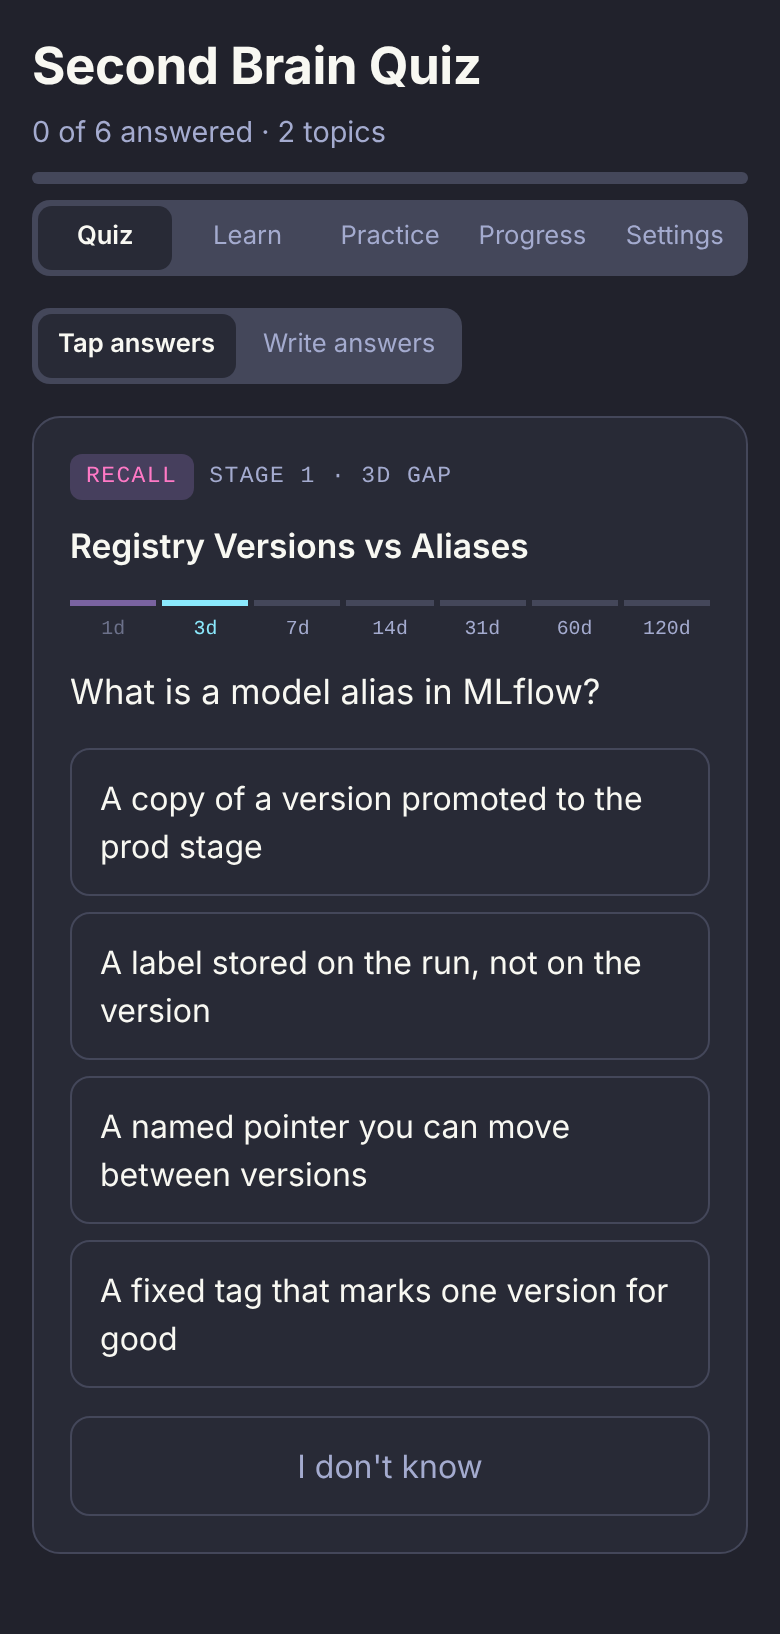
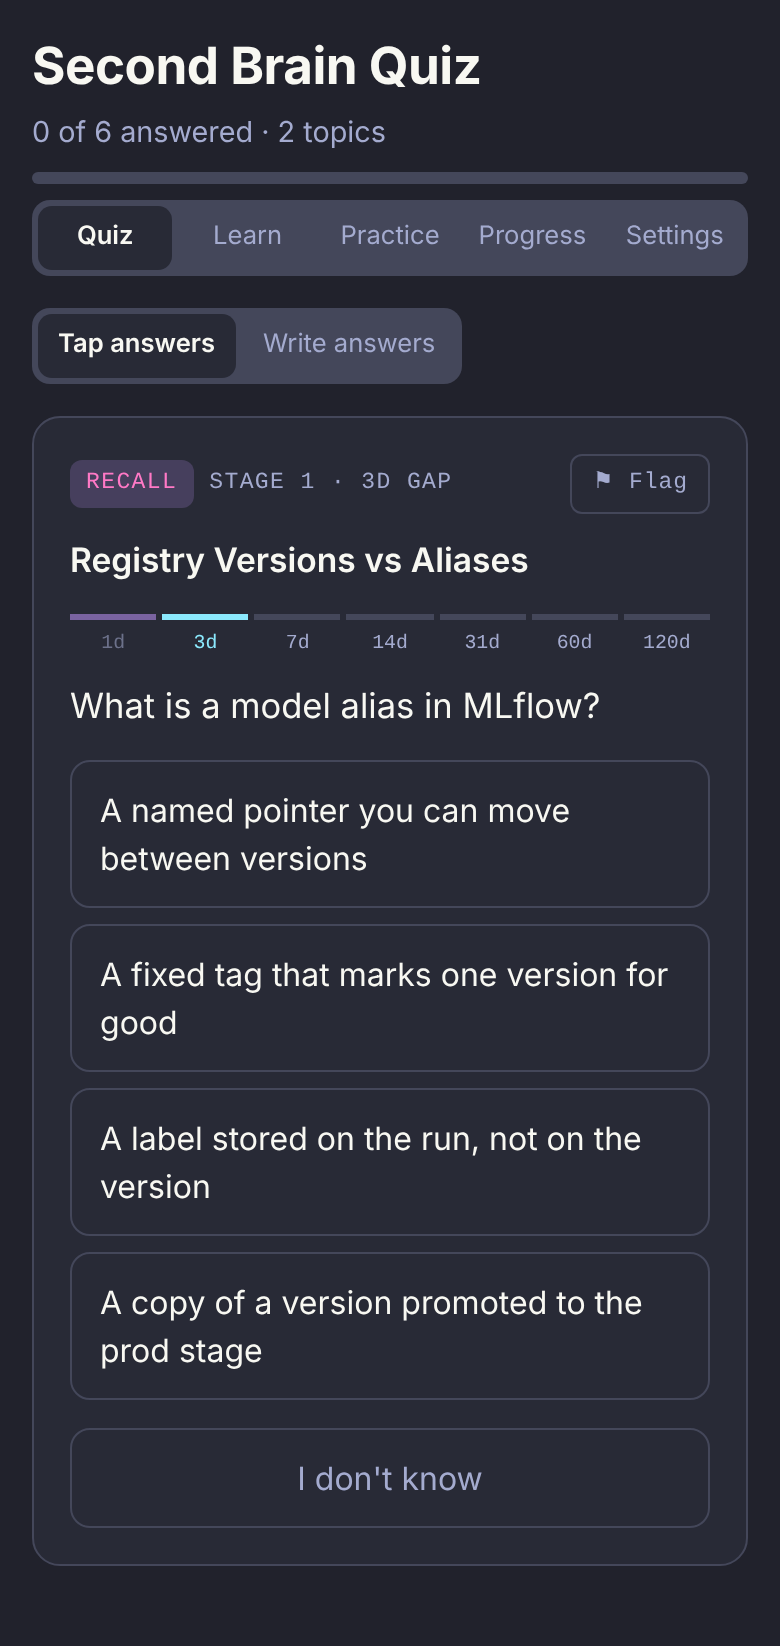
v1.15.0: flag questions, offline answers, inline code in questions
Claude-Session: https://claude.ai/code/session_01EMdQBoW5wE4vVuz75Yu5Xb

diff --git a/quiz/quiz.html b/quiz/quiz.html
@@ -69,6 +69,10 @@ h1{font:700 1.6rem/1.1 var(--display);margin:0;text-wrap:balance;letter-spacing:
 .bar i{display:block;height:100%;background:var(--accent);width:0;transition:width .3s}
 .card{background:var(--surface);border:1px solid var(--line);border-radius:14px;padding:18px;display:flex;flex-direction:column;gap:14px;min-width:0}
 .meta{display:flex;flex-wrap:wrap;gap:8px;align-items:center}
+.flag{margin-left:auto;min-height:30px;padding:4px 10px;font:500 .72rem/1 var(--mono);letter-spacing:.04em;color:var(--muted);background:transparent;border:1px solid var(--line);border-radius:6px;text-align:center}
+.flag[disabled]{opacity:1;color:var(--good);border-color:var(--good)}
+.flagmenu{display:flex;flex-wrap:wrap;gap:6px}.flagmenu button{min-height:34px;padding:6px 10px;font-size:.8rem;text-align:center}
+.pending{color:var(--warn);font-size:.82rem;margin:0}
 .chip{font:500 .72rem/1 var(--mono);letter-spacing:.06em;text-transform:uppercase;padding:6px 8px;border-radius:6px;background:var(--accent-soft);color:var(--pink)}
 .chip.plain{background:transparent;color:var(--muted);padding-inline:0}
 .topic{font:600 1.05rem/1.3 var(--display);margin:0}
@@ -191,6 +195,7 @@ textarea{font:inherit;width:100%;box-sizing:border-box;min-height:120px;border-r
   <header>
     <h1>Second Brain Quiz</h1>
     <p class="sub" id="sub">Loading your questions…</p>
+    <p class="pending" id="pending" hidden></p>
     <div class="bar" aria-hidden="true"><i id="prog"></i></div>
     <div class="mode tabs" id="tabs" role="tablist" aria-label="View">
       <button type="button" data-t="quiz">Quiz</button>
@@ -306,8 +311,8 @@ function questionCard(q) {
   const c = el("section", "card");
   const stage = Number(q.stage) || 0;
   const meta = el("div", "meta");
-  meta.append(el("span", "chip", KIND[q.kind] || q.kind), el("span", "chip plain", `Stage ${stage} · ${WAIT[stage]}d gap`));
-  c.append(meta, el("h2", "topic", q.topic), ladder(stage), el("p", "prompt", q.prompt));
+  meta.append(el("span", "chip", KIND[q.kind] || q.kind), el("span", "chip plain", `Stage ${stage} · ${WAIT[stage]}d gap`), flagBtn(q, c));
+  c.append(meta, el("h2", "topic", q.topic), ladder(stage), promptEl(q));
   if (q.code) c.append(el("pre", "code", q.code));
 
   const a = A.get(q.id);
@@ -317,7 +322,7 @@ function questionCard(q) {
   if (hasOpts && (style === "tap" || q.kind === "recall")) {   // written mode: why/apply/teach get a text box
     const opts = el("div", "opts");
     shuffled(q.options.length).forEach(i => {            // new order every time, so position can't be memorised
-      const o = q.options[i], b = el("button", null, o); b.dataset.i = i;
+      const o = q.options[i], b = el("button"); b.append(inline(o)); b.dataset.i = i;
       b.onclick = () => {
         const ok = i === Number(q.correct);
         opts.querySelectorAll("button").forEach(x => { x.disabled = true; if (Number(x.dataset.i) === Number(q.correct)) x.classList.add("right"); });
@@ -444,11 +449,76 @@ function doneCard(topics) {
   c.append(rows, row); return c;
 }
 
+// ---------- Offline outbox: writes that fail (no signal) wait on the phone and send when signal is back ----------
+const loadBox = () => { try { return JSON.parse(localStorage.getItem("outbox") || "[]"); } catch (e) { return []; } };
+let outbox = loadBox(), flushing = false;
+const saveBox = () => { try { localStorage.setItem("outbox", JSON.stringify(outbox.slice(-500))); } catch (e) {} };
+const timed = (p, ms = 8000) => Promise.race([p, new Promise((_, r) => setTimeout(() => r({ code: "timeout" }), ms))]);
+async function rawWrite(w) {
+  const ref = db.collection(w.c).doc(w.id);
+  if (w.op !== "day") return timed(ref.set(w.data));
+  try { await timed(ref.update(w.data)); }                    // activity month doc: update, or create it
+  catch (e) { if (e?.code === "invalid_argument") await timed(ref.set(w.data)); else throw e; }
+}
+function enqueue(w) {
+  const same = outbox.findIndex(x => x.c === w.c && x.id === w.id && x.op === w.op);
+  if (same >= 0 && w.op === "day") outbox[same].data = { days: { ...outbox[same].data.days, ...w.data.days } };
+  else if (same >= 0) outbox[same] = w; else outbox.push(w);
+  saveBox(); showPending();
+}
+const HARD = ["quota_exceeded", "permission_denied", "not_found"];   // real errors, not missing signal
+async function put(c, id, data, op = "set") {           // true = saved now, false = queued until signal returns
+  const w = { c, id, data, op };
+  if (!db || outbox.length || navigator.onLine === false) { enqueue(w); flush(); return false; }
+  try { await rawWrite(w); return true; }
+  catch (e) { if (HARD.includes(e?.code)) throw e; enqueue(w); return false; }
+}
+async function flush() {
+  if (flushing || !outbox.length || !db || navigator.onLine === false) return;
+  flushing = true;
+  try {
+    while (outbox.length) {
+      try { await rawWrite(outbox[0]); }
+      catch (e) { if (!HARD.includes(e?.code) && (outbox[0].tries = (outbox[0].tries || 0) + 1) < 5) break; }   // retry later; give up on a write after 5 tries
+      outbox.shift(); saveBox();
+    }
+  } finally { flushing = false; showPending(); }
+}
+function showPending() {
+  const n = outbox.filter(w => w.c === "answers").length, p = document.getElementById("pending");
+  p.hidden = !n; p.textContent = `${n} answer${n === 1 ? "" : "s"} saved on this phone, sending when you have signal`;
+}
+addEventListener("online", flush);
+document.addEventListener("visibilitychange", () => { if (!document.hidden) flush(); });
+setInterval(flush, 30000);
+
+// ---------- Flag a bad question: logged on its vault page; "refresh banks" fixes flagged questions first ----------
+const FLAG_REASONS = ["Wrong answer", "Unclear", "Needs code", "Too easy"];
+function flagBtn(q, card) {
+  const b = el("button", "flag", "⚑ Flag"); b.type = "button"; b.setAttribute("aria-label", "Flag this question");
+  b.onclick = e => {
+    e.stopPropagation();
+    if (card.querySelector(".flagmenu")) return card.querySelector(".flagmenu").remove();
+    const m = el("div", "flagmenu");
+    FLAG_REASONS.forEach(r => {
+      const o = el("button", null, r); o.type = "button";
+      o.onclick = () => {
+        m.remove(); b.disabled = true; b.textContent = "Flagged ✓";
+        put("answers", `f-${Date.now()}-${Math.random().toString(36).slice(2, 7)}`,
+          { mode: "flag", reason: r, page: q.page || "", topic: q.topic, prompt: q.prompt, at: new Date().toISOString() }).catch(() => {});
+      };
+      m.append(o);
+    });
+    b.closest(".meta").after(m);
+  };
+  return b;
+}
+
 async function save(q, data) {
   shownId = q.id;
   A.set(q.id, data); lastKey = ""; render();              // show feedback straight away
   try {
-    await db.collection("answers").doc(q.id).set({ ...data, topic: q.topic, page: q.page || "", kind: q.kind, at: new Date().toISOString() });
+    await put("answers", q.id, { ...data, topic: q.topic, page: q.page || "", kind: q.kind, at: new Date().toISOString() });
     logDay(data.verdict, Number(q.stage) || 0);
   } catch (e) {
     A.delete(q.id); shownId = null; lastKey = ""; render();
@@ -474,11 +544,7 @@ function writeDay(patch) {
   const next = patch(cur);
   ACT[mk] = { days: { ...(ACT[mk]?.days || {}), [dd]: next } };
   if (tab === "progress") renderProgress();
-  writeChain = writeChain.then(async () => {
-    const ref = db.collection("activity").doc(mk);
-    try { await ref.update({ days: { [dd]: next } }); }
-    catch (e) { if (e?.code === "invalid_argument") { try { await ref.set({ days: { [dd]: next } }); } catch (_) {} } }
-  });
+  writeChain = writeChain.then(() => put("activity", mk, { days: { [dd]: next } }, "day").catch(() => {}));
 }
 const xpFor = (verdict, stage, factor = 1) => Math.max(1, Math.round((XP[verdict] || 0) * (1 + 0.5 * stage) * factor));
 function logDay(verdict, stage, factor = 1) {
@@ -618,7 +684,7 @@ tabBtns.forEach(b => b.onclick = () => showTab(b.dataset.t));
 showTab("quiz");
 
 // ---------- Practice: one question at a time, swap animation, hard mode, icon ----------
-const VERSION = "1.14.0";
+const VERSION = "1.15.0";
 document.getElementById("version").textContent = `Second Brain Kit v${VERSION}`;
 const ICONS = ["🧠", "🦉", "🐉", "🚀", "⚡", "🔥", "🐺", "🦊", "🐙", "🤖", "🛰", "🗝"];
 let POOL = [], bag = [], pfilter = "all", combo = 0, practiceStarted = false, current = null, hard = false;
@@ -676,12 +742,12 @@ let timer = null;
 const hardSeconds = () => combo >= 5 ? 10 : 15;   // 15 s to answer; after 5 right in a row it tightens to 10 s
 function cardFor(q) {
   const c = el("section", "card pcard enter"), stage = stageOf(q.page);
-  const meta = el("div", "meta"); meta.append(el("span", "chip", KIND[q.kind] || q.kind), el("span", "chip plain", `${q.topic} · ${WAIT[stage]}d`));
+  const meta = el("div", "meta"); meta.append(el("span", "chip", KIND[q.kind] || q.kind), el("span", "chip plain", `${q.topic} · ${WAIT[stage]}d`), flagBtn(q, c));
   const opts = el("div", "opts");
-  c.append(meta, el("p", "prompt", q.prompt));
+  c.append(meta, promptEl(q));
   if (q.code) c.append(el("pre", "code", q.code));
   shuffled(q.options.length).forEach(i => {
-    const b = el("button", null, q.options[i]); b.dataset.i = i;
+    const b = el("button"); b.append(inline(q.options[i])); b.dataset.i = i;
     b.onclick = () => answer(q, i, c, b, opts, stage);
     opts.append(b);
   });
@@ -721,8 +787,8 @@ function answer(q, i, c, b, opts, stage) {
   c.append(el("p", "hint", q.answer || q.options[q.correct]));
   const nx = el("button", "primary", "Next"); nx.onclick = nextCard;
   const row = el("div", "actions"); row.append(nx); learnBtn(q, row); c.append(row);
-  db.collection("answers").doc(`p-${Date.now()}-${Math.random().toString(36).slice(2, 7)}`)
-    .set({ mode: "practice", page: q.page, topic: q.topic, kind: q.kind, verdict, missing: [q.options[q.correct]], at: new Date().toISOString() }).catch(() => {});
+  put("answers", `p-${Date.now()}-${Math.random().toString(36).slice(2, 7)}`,
+    { mode: "practice", page: q.page, topic: q.topic, kind: q.kind, verdict, missing: [q.options[q.correct]], at: new Date().toISOString() }).catch(() => {});
 }
 function nextCard() {
   if (timer) cancelAnimationFrame(timer); timer = null;
@@ -790,6 +856,7 @@ function openLesson(page) {
   showLesson(L);
 }
 // Tiny markdown → DOM (no innerHTML): paragraphs, - and 1. lists, ``` code, **bold**, `code`
+const promptEl = q => { const p = el("p", "prompt"); p.append(inline(q.prompt || "")); return p; };
 function inline(s) {
   const f = document.createDocumentFragment();
   s.split(/(\*\*[^*]+\*\*|`[^`]+`)/).forEach(p => {
@@ -858,13 +925,13 @@ function check(L) {
   left.sort((a, b) => missed.has(b.key) - missed.has(a.key) || Math.random() - .5);   // the questions you missed come first
   const q = left[0]; lused.add(q.key);
   const c = el("section", "card"), stage = stageOf(L.p);
-  const meta = el("div", "meta"); meta.append(el("span", "chip", KIND[q.kind] || q.kind), el("span", "chip plain", L.t));
+  const meta = el("div", "meta"); meta.append(el("span", "chip", KIND[q.kind] || q.kind), el("span", "chip plain", L.t), flagBtn(q, c));
   const opts = el("div", "opts");
   const dd = dots(); c.style.position = "relative";
-  c.append(meta, dd, el("p", "prompt", q.prompt));
+  c.append(meta, dd, promptEl(q));
   if (q.code) c.append(el("pre", "code", q.code));
   shuffled(q.options.length).forEach(i => {
-    const b = el("button", null, q.options[i]); b.dataset.i = i;
+    const b = el("button"); b.append(inline(q.options[i])); b.dataset.i = i;
     b.onclick = () => {
       if (c.dataset.done) return; c.dataset.done = "1";
       const ok = i === Number(q.correct), verdict = ok ? "correct" : "wrong";
@@ -873,8 +940,8 @@ function check(L) {
       lstreak = ok ? lstreak + 1 : 0; markMissed(q.key, !ok); dd.replaceWith(dots());
       const delta = practiceXP(ok, stage) + (ok && lstreak >= NEED ? 10 : 0);
       writeDay(d => ({ ...d, n: d.n + 1, [verdict[0]]: (d[verdict[0]] || 0) + 1, xp: d.xp + delta }));
-      db.collection("answers").doc(`l-${Date.now()}-${Math.random().toString(36).slice(2, 7)}`)
-        .set({ mode: "learn", page: q.page, topic: q.topic, kind: q.kind, verdict, missing: [q.options[q.correct]], at: new Date().toISOString() }).catch(() => {});
+      put("answers", `l-${Date.now()}-${Math.random().toString(36).slice(2, 7)}`,
+        { mode: "learn", page: q.page, topic: q.topic, kind: q.kind, verdict, missing: [q.options[q.correct]], at: new Date().toISOString() }).catch(() => {});
       c.classList.add(ok ? "good" : "bad");
       c.append(el("span", "float " + (delta >= 0 ? "up" : "down"), `+${delta} XP`));
       const row = el("div", "actions");
@@ -904,7 +971,7 @@ for (const ic of ICONS) {
   const b = el("button", null, ic); b.type = "button"; b.setAttribute("role", "radio"); b.setAttribute("aria-label", "Icon " + ic);
   b.onclick = async () => {
     STATS = { ...STATS, profile: { icon: ic } }; showIcons(); hud(); if (tab === "progress") renderProgress();
-    try { await db.collection("stats").doc("profile").set({ icon: ic }); } catch (e) {}
+    put("stats", "profile", { icon: ic }).catch(() => {});
   };
   iconBox.append(b);
 }
@@ -924,6 +991,7 @@ async function boot() {
     if (tab === "progress") renderProgress();
   }, () => {});
   db.collection("stats").onSnapshot(s => { STATS = Object.fromEntries(s.docs.map(d => [d.id, d.data()])); showIcons(); if (tab === "progress") renderProgress(); if (tab === "practice") hud(); }, () => {});
+  showPending(); flush();
   db.collection("bank").onSnapshot(s => { buildPool(s.docs.map(d => d.data())); }, () => {});
   db.collection("questions").orderBy("order").onSnapshot(s => {
     Q = s.docs.map(d => ({ id: d.id, ...d.data() })); render();
@@ -932,6 +1000,7 @@ async function boot() {
   db.collection("answers").onSnapshot(s => {
     const m = new Map(s.docs.map(d => [d.id, d.data()]));
     for (const [k, v] of A) if (!m.has(k) && k === shownId) m.set(k, v);   // keep local feedback until the write lands
+    for (const w of outbox) if (w.c === "answers" && !w.data.mode && !m.has(w.id)) m.set(w.id, w.data);   // answered offline, not sent yet
     A = m; render();
   }, fail);
 }

diff --git a/template/.sync/sync.py b/template/.sync/sync.py
@@ -58,16 +58,19 @@ def set_fm(text, **kv):
     return "---\n" + "\n".join(body) + "\n---\n" + text[m.end():]
 
 
-def add_weak(text, items, day):
+def add_weak(text, items, day, heading="Weak spots"):
     if not items:
         return text
-    items = [i for i in items if f": {i}\n" not in text]       # don't repeat a weak spot already listed
+    items = [i for i in items if f": {i}\n" not in text]       # don't repeat a line already listed
     if not items:
         return text
     lines = "".join(f"- {day}: {i}\n" for i in items)
-    m = re.search(r"^## Weak spots\n", text, re.M)
+    m = re.search(rf"^## {heading}\n", text, re.M)
     if not m:
-        return text.rstrip("\n") + f"\n\n## Weak spots\n{lines}"
+        notes = re.search(r"^## My notes\n", text, re.M)       # new section goes above My notes
+        if notes and heading != "Weak spots":
+            return text[:notes.start()] + f"## {heading}\n{lines}\n" + text[notes.start():]
+        return text.rstrip("\n") + f"\n\n## {heading}\n{lines}"
     nxt = re.search(r"^## ", text[m.end():], re.M)
     pos = m.end() + nxt.start() if nxt else len(text)
     return text[:pos].rstrip("\n") + "\n" + lines + "\n" + text[pos:]
@@ -153,7 +156,7 @@ def run(vault, inbox, now, force_bank=False):
         for i in ids:
             writes.append({"op": "delete", "collection": "questions", "doc_id": i, "if_version": qs[i]["version"]})
             writes.append({"op": "delete", "collection": "answers", "doc_id": i, "if_version": ans[i]["version"]})
-    practiced = 0
+    practiced, flagged = 0, []
     for i, a in ans.items():                 # practice answers, and answers whose question is already gone
         if i in qs:
             continue
@@ -164,6 +167,13 @@ def run(vault, inbox, now, force_bank=False):
             if d.get("page") and p.exists() and d.get("verdict") != "correct":   # practice never moves the ladder,
                 text, _ = read_page(p)                                            # but misses become weak spots
                 p.write_text(add_weak(text, [f"({d['mode']}) {m}" for m in (d.get("missing") or [])[:2]], day))
+            done.add(i)
+        elif d.get("mode") == "flag" and i not in done:          # a bad question flagged on the phone
+            p = vault / d.get("page", "")
+            if d.get("page") and p.exists():
+                text, _ = read_page(p)
+                p.write_text(add_weak(text, [f"{d.get('reason', 'Flagged')}: {d.get('prompt', '')}"], day, "Flagged questions"))
+                flagged.append(d["page"])
             done.add(i)
         writes.append({"op": "delete", "collection": "answers", "doc_id": i, "if_version": a["version"]})
     done_f.write_text("\n".join(sorted(done)) + "\n")
@@ -212,6 +222,8 @@ def run(vault, inbox, now, force_bank=False):
         p.write_text(set_fm(text, bank_set=n + 1))
         loaded.append(topic)
 
+    refresh += [p for p in dict.fromkeys(flagged) if p not in refresh]   # flagged questions get fixed at "refresh banks"
+
     # Mastery snapshot for the quiz page's Progress tab (stage counts after this run's updates).
     st = {r["id"]: r for r in inbox.get("stats", [])}
     w = {"op": "set", "collection": "stats", "doc_id": "mastery",
@@ -243,6 +255,8 @@ def run(vault, inbox, now, force_bank=False):
         summary.append("Loaded: " + ", ".join(loaded))
     if practiced:
         summary.append(f"Practice answers saved: {practiced}")
+    if flagged:
+        summary.append(f"Flagged questions: {len(flagged)} (say \"refresh banks\" to fix them)")
     if log or loaded:
         with open(vault / "log.md", "a") as f:
             f.write(f"\n## [{day}] quiz | sync {now:%H:%M}\n"

diff --git a/template/.sync/test_sync.py b/template/.sync/test_sync.py
@@ -112,4 +112,12 @@ with tempfile.TemporaryDirectory() as d:
     run(v, {**queued, "answers": [lr]}, dt.datetime(2026, 10, 12, 12, 20))
     assert "(learn) learned gap" in page.read_text() and re.search(r"^stage: (\d+)", page.read_text(), re.M).group(1) == before_stage
 
+    # Flags: logged under "## Flagged questions" above My notes, page goes to refresh_bank, the flag doc is deleted
+    fl = {"id": "f-1", "version": 1, "data": {"mode": "flag", "reason": "Needs code", "page": "wiki/tech/Topic A.md", "prompt": "What does X do?"}}
+    out7 = run(v, {**queued, "answers": [fl, {**fl, "id": "f-2"}]}, dt.datetime(2026, 10, 12, 12, 30))
+    t7 = page.read_text()
+    assert t7.count("Needs code: What does X do?") == 1 and t7.index("## Flagged questions") < t7.index("## My notes"), t7
+    assert "wiki/tech/Topic A.md" in out7["refresh_bank"] and any("Flagged questions: 2" in s for s in out7["summary"])
+    assert sum(w["op"] == "delete" and w["collection"] == "answers" for b in out7["batches"] for w in b) == 2
+
 print("ok")

diff --git a/README.md b/README.md
@@ -9,7 +9,7 @@ Built on Karpathy's "LLM wiki" idea and the CoderCo *Learn it so it sticks* meth
 > **Claude, reading this for a user:** to install, follow [`SETUP_PROMPT.md`](SETUP_PROMPT.md) step by step. If they already have a Second Brain vault (a `CLAUDE.md` with this schema or a `.sync/kit_version`), follow [`skills/update-second-brain/SKILL.md`](skills/update-second-brain/SKILL.md) instead.
 
 **What you get**
-- **Quiz:** tomorrow's due topics on your phone, multiple choice (or written answers marked by Claude), with code snippets where a question needs them.
+- **Quiz:** tomorrow's due topics on your phone, multiple choice (or written answers marked by Claude), with code snippets where a question needs them. Works offline and lets you flag bad questions.
 - **Learn:** your weak topics as step-by-step lessons (the problem, the idea, your own code line by line, your past mistakes), then 2 right in a row to clear.
 - **Practice:** endless questions from your whole bank, XP, combos and a timed hard mode.
 - **Progress:** streak, levels, a GitHub-style heatmap and mastery across the ladder.
@@ -89,6 +89,8 @@ next sync (auto) ──► scores each topic, moves it up/down the ladder,
 - **Strictness:** Lenient / Balanced / Strict (shows in Write mode).
 - **Done screen:** shows where each topic moves on the ladder.
 - Nothing to do? It says so. New questions load at the next sync.
+- **⚑ Flag** any bad question (wrong answer, unclear, needs code, too easy). It's logged on the topic's page and fixed next time you say `refresh banks`.
+- **No signal?** Keep going. Answers are saved on your phone and sent when signal returns. Open the quiz once before you go underground.
 
 ### Learn tab (phone)
 - Lists your weak topics (stage 0–1, missed questions, logged weak spots), most urgent first.

diff --git a/template/CLAUDE.md b/template/CLAUDE.md
@@ -158,7 +158,7 @@ The Learn tab teaches weak topics from the page's `## Lesson` (placed after the 
 - After writing or changing lessons, publish banks for Practice (lessons travel with the bank; reading them costs no tokens).
 
 ### refresh banks  ("refresh banks", or when a sync reports refresh_bank / needs_bank)
-For each flagged page: write 1–2 new question sets (same format, all with options), targeting `## Weak spots` first, and append them to the page's question bank. Never edit sets already used.
+For each flagged page: **first fix every question listed under `## Flagged questions`** (flagged on the phone: wrong answer / unclear / needs code / too easy). Rewrite that question in place, even in a used set: correct it, clarify it, add a `code` snippet, or make it harder. Then delete those lines (and the heading if empty). Then write 1–2 new question sets (same format, all with options), targeting `## Weak spots` first, and append them to the page's question bank. Never edit used sets except to fix a flagged question. Publish banks after.
 
 ### capture  (always on)
 In any session in this vault: when a concept comes up that has no page in the folder `_index.md` (the user learns it, asks about it, or uses it in a build), offer in one line: "Add <concept> to your quiz?" Yes → write the page + bank, `stage: 0`, due tomorrow. Never add without a yes.

diff --git a/CHANGELOG.md b/CHANGELOG.md
@@ -2,6 +2,12 @@
 
 The quiz page shows its version under **Settings → About**. To update an existing setup, type `/update-second-brain` in Cowork (or paste [`UPDATE_PROMPT.md`](UPDATE_PROMPT.md) if you set up before v1.14).
 
+## 1.15.0
+- **Flag a question:** a small ⚑ Flag on every question (Quiz, Practice, Learn): wrong answer / unclear / needs code / too easy. The sync logs it on the topic's page under `## Flagged questions`, and **refresh banks** fixes flagged questions first.
+- **Works with bad signal:** answers, XP and flags are saved on your phone when there's no signal and sent automatically when it's back ("N answers saved on this phone" shows meanwhile). Open the quiz once before you lose signal.
+- Inline `code` in questions and options now renders as code.
+- Update needs: nothing extra (the update copies the new sync script and merges the refresh banks rule).
+
 ## 1.14.0
 - **`/update-second-brain` skill:** updating is one command. It reads your installed version (`.sync/kit_version`), shows what's new, and runs only the one-time steps you missed.
 - Each version below lists its **Update needs:** (one-time steps the update runs for you).
